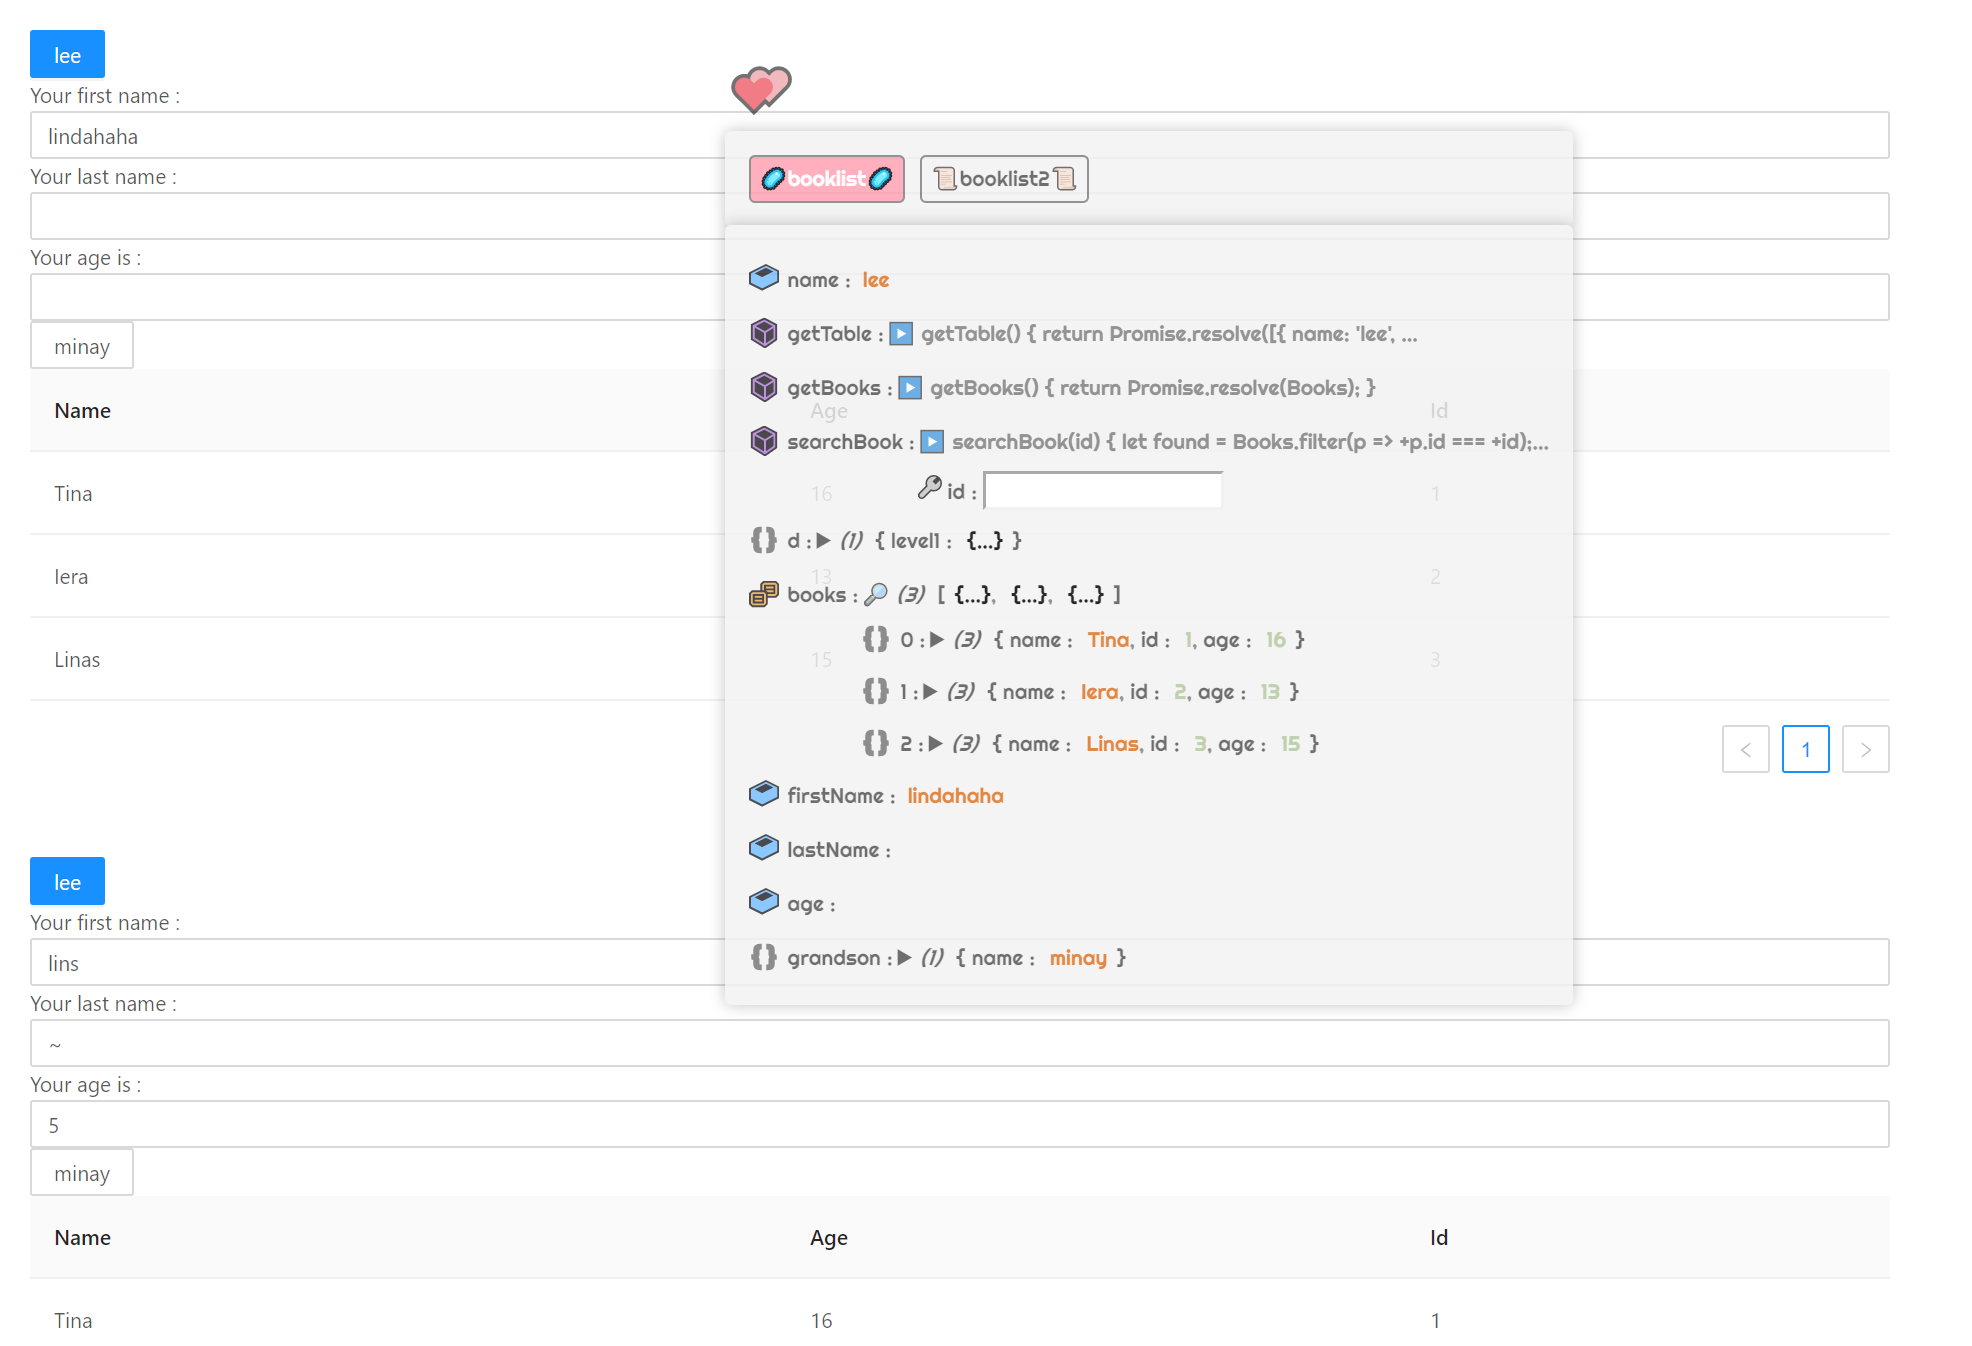
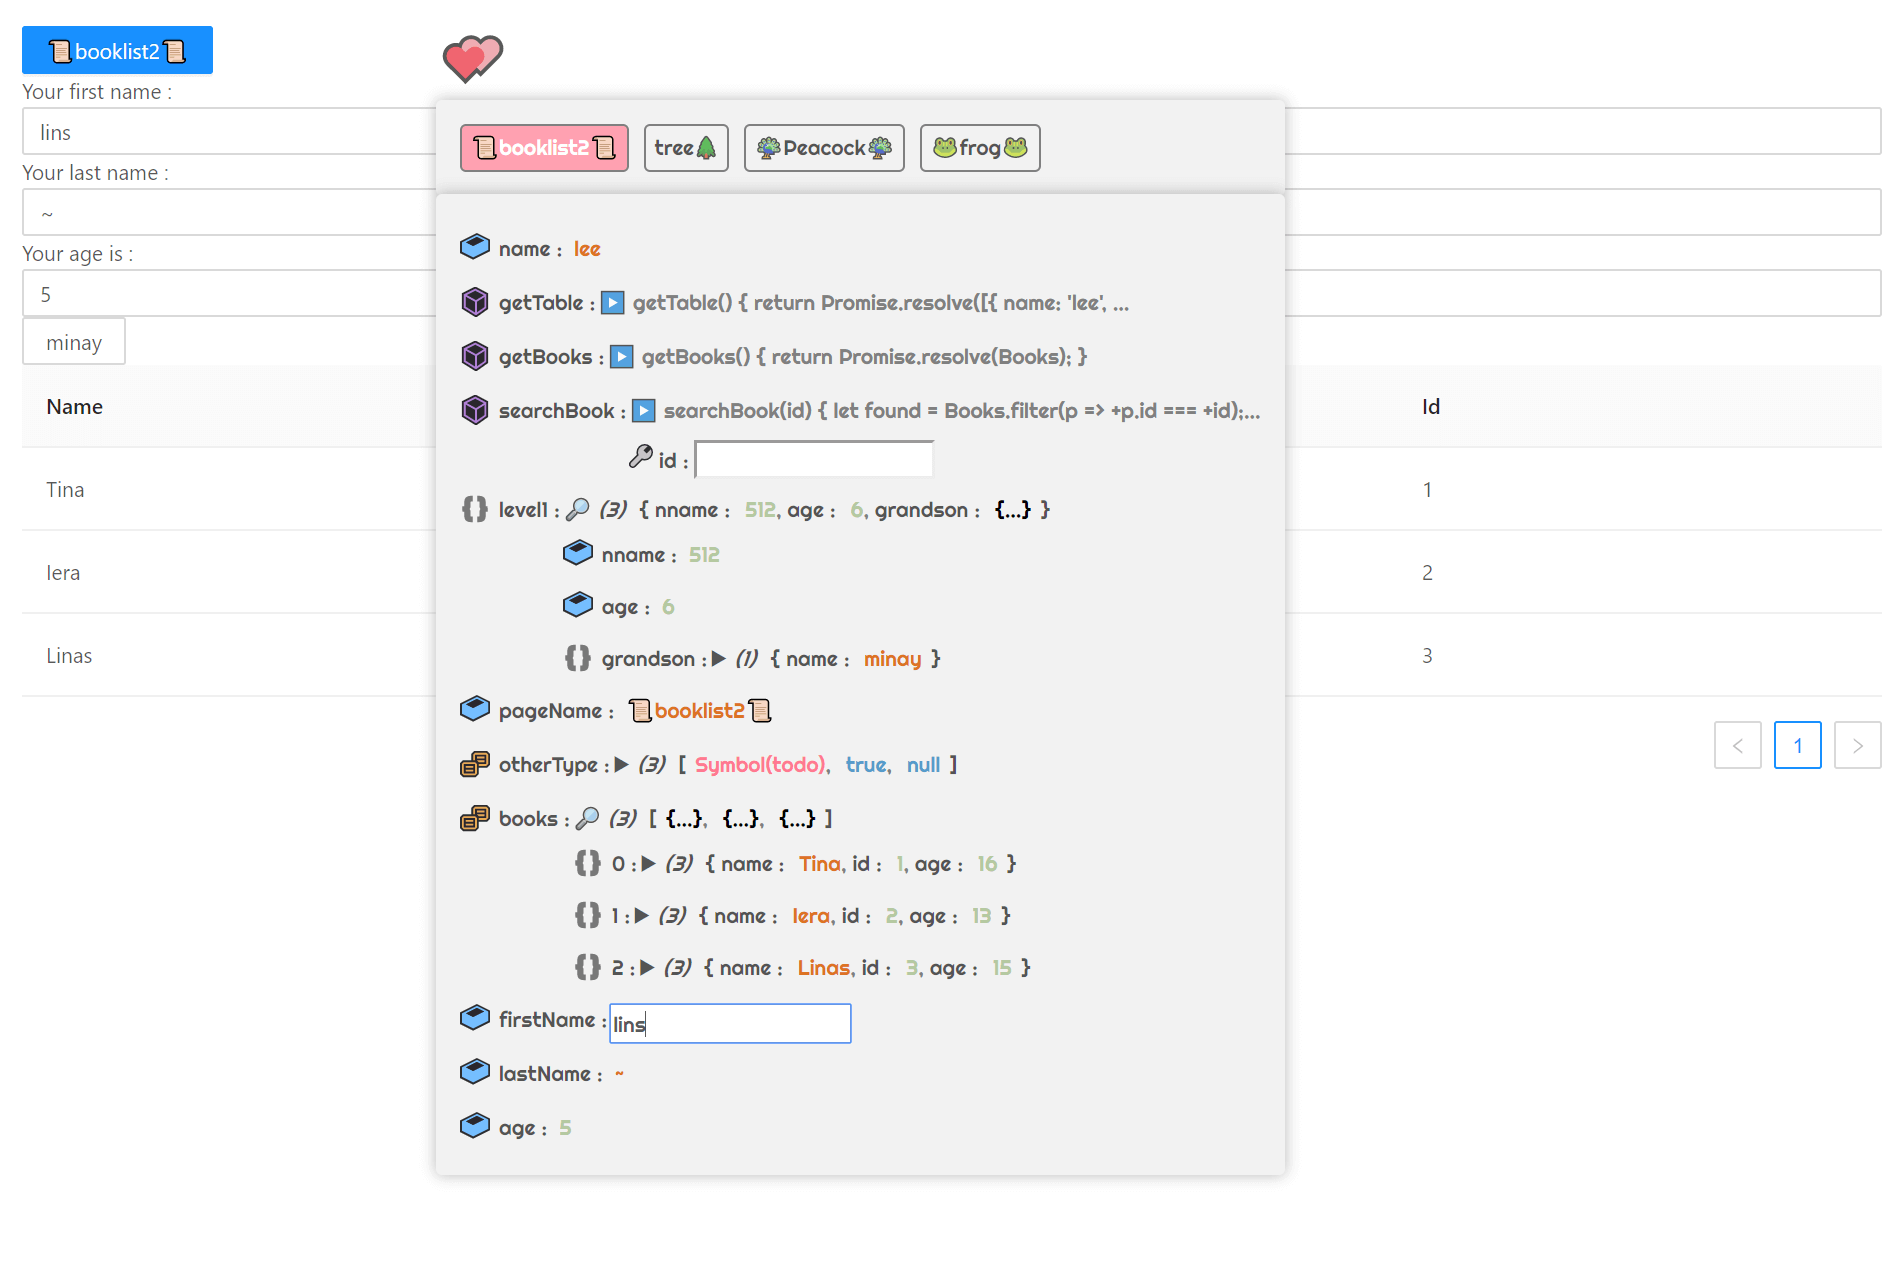
upload exhibition image

diff --git a/src/test/booklist2.tsx b/src/test/booklist2.tsx
@@ -21,6 +21,9 @@ const _: FC = () => {
     },
     { sceneName: '📜booklist2📜' }
   )
+  useObject({ pageName: 'tree' }, { sceneName: '🌲tree🌲' })
+  useObject({ name: '🦚Peacock🦚' }, { sceneName: '🦚Peacock🦚' })
+  useObject({ name: 'frog', height: 67 }, { sceneName: '🐸frog🐸' })
   useEffect(() => {
     fetchData()
   }, [])
